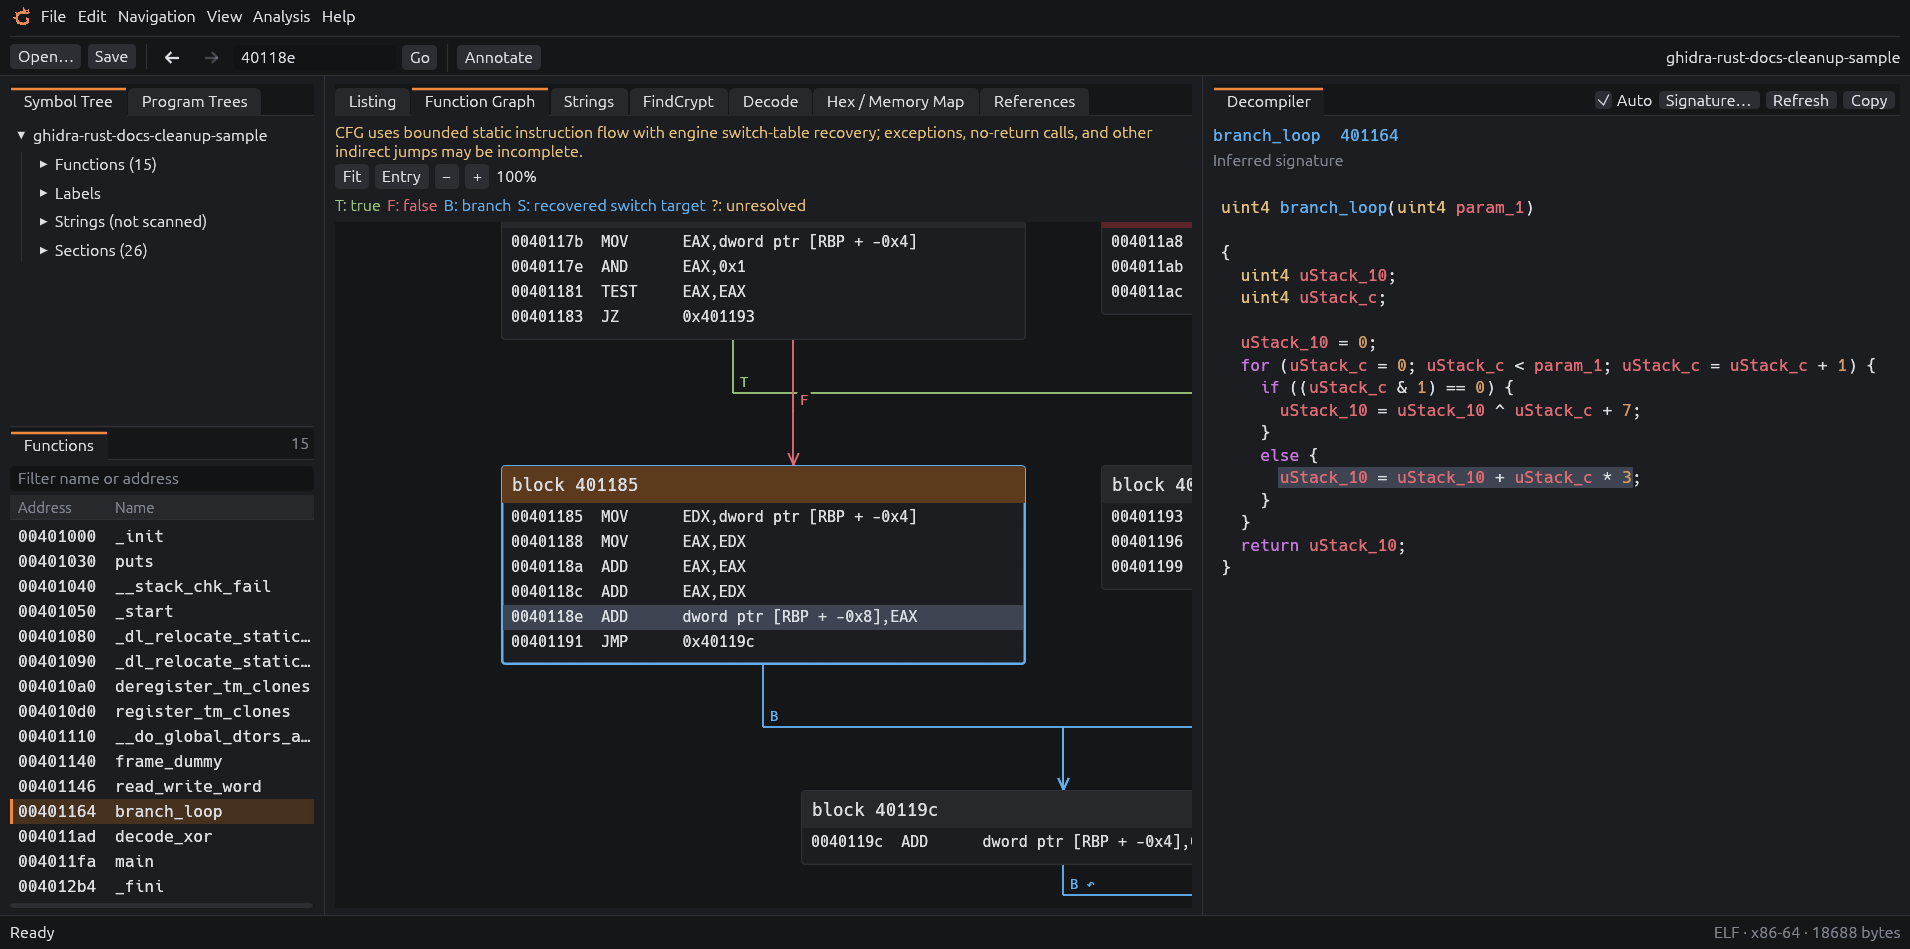
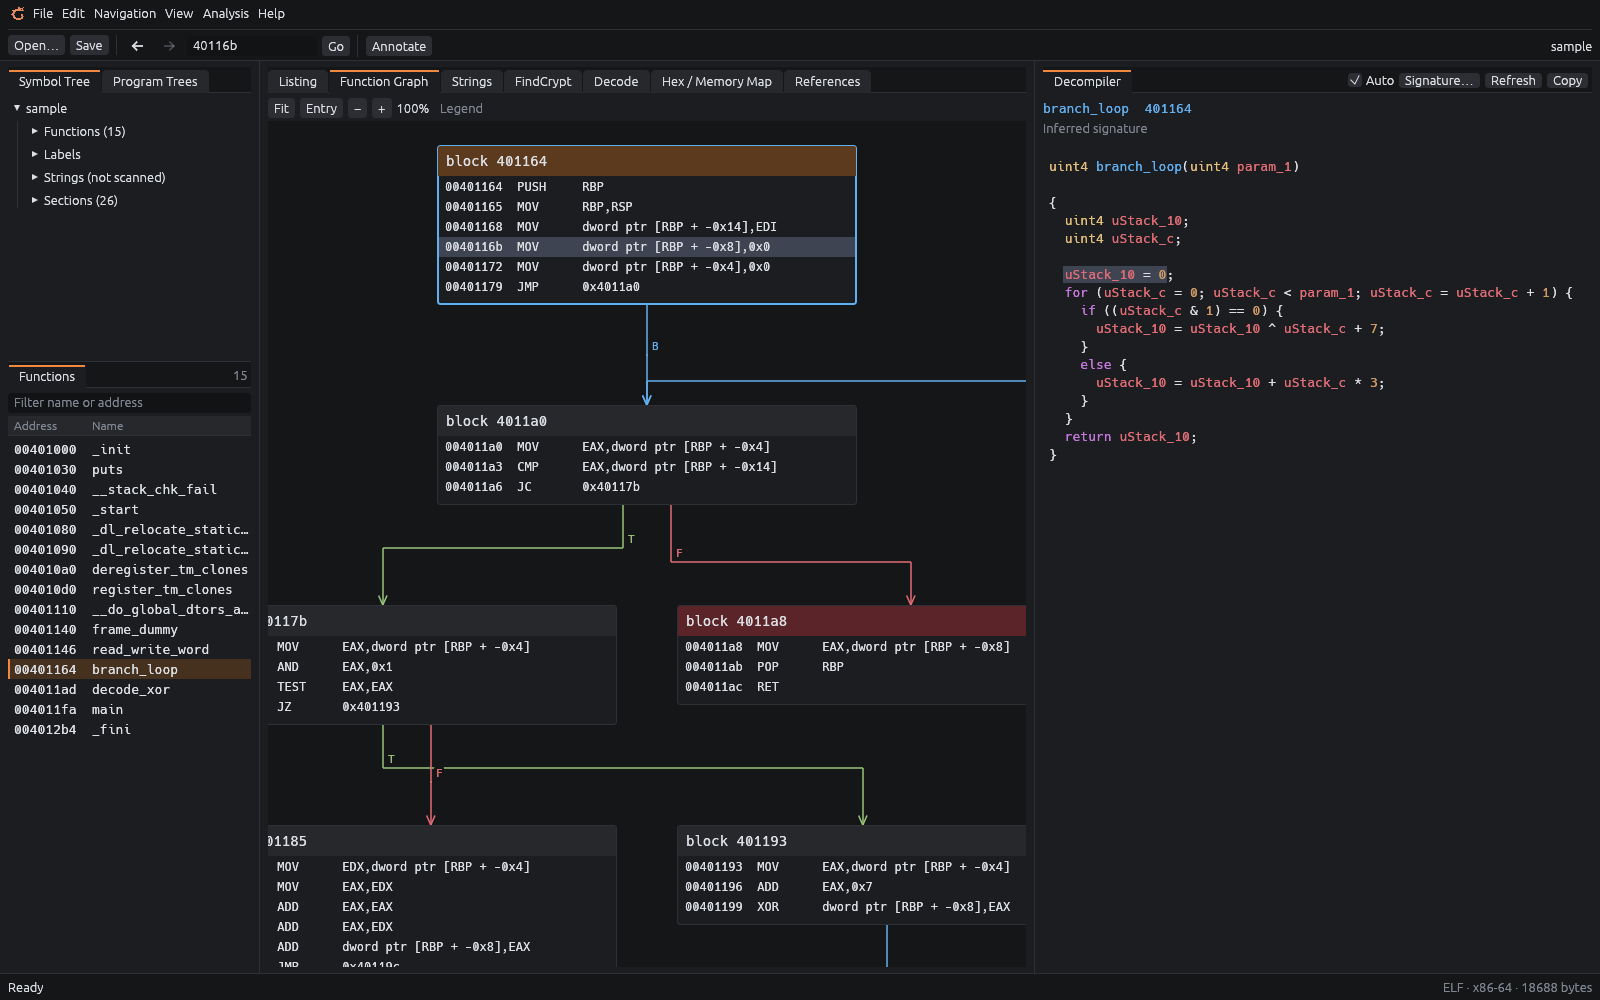
docs: refresh Carbon graph capture and release notes

diff --git a/docs/analysis.md b/docs/analysis.md
@@ -191,8 +191,8 @@ register constants within each basic block, for example `ADRP; ADD; LDR` and
 `MOVZ`/`MOVK` with supported arithmetic, shifts, and extensions. These accesses
 show `Read*` / `Write*` in **Data accesses**; hover the Access cell for
 “* Address from register constants in this block.” Unmarked accesses use
-instruction-local evidence. Block boundaries, calls,
-unsupported/omitted instructions, and overlapping register writes clear knowledge.
+instruction-local evidence. Block boundaries, calls, unsupported/omitted
+instructions, and overlapping register writes clear knowledge.
 Loaded pointers are never chased: `ADRP; LDR` identifies the slot, not its value.
 Address formation alone and call arguments create no references. Cross-branch
 values and switch-recovery table reads are excluded. Internal p-code branches,
@@ -228,9 +228,9 @@ calls reveal work; they are not whole-program completion percentages or ETAs.
 Elapsed time includes setup and waits; step counts identify selected analyses,
 not portions of runtime. Processed counts include failed and limited attempts
 and exclude in-flight work. Other phases show activity. Hover for phase/count
-details. Worker **Seeds**,
-**Calls** (shown as **Analyzing references**), and **Publish** stages report batch
-work; progress never resets CPU or wall-time deadlines.
+details. Worker **Seeds**, **Calls** (shown as **Analyzing references**), and
+**Publish** stages report batch work; progress never resets CPU or wall-time
+deadlines.
 
 Cancel terminates the worker and pauses discovery while retaining committed
 batches and the remaining queue. Discover resumes with a new elapsed clock.

diff --git a/README.md b/README.md
@@ -71,7 +71,8 @@ See [architecture coverage](docs/architectures.md).
 
 Browse or filter Functions, then select a function to inspect its listing,
 graph, and pseudocode. Pan and zoom the graph; **Fit** shows an overview and
-**Entry** returns to readable entry code. **Legend** and graph warnings are in the graph toolbar.
+**Entry** returns to readable entry code.
+**Legend** and graph warnings are in the graph toolbar.
 
 Double-click a resolved call instruction or decompiler call-name token to
 open its target. Back / Forward returns to previous instruction selections.

diff --git a/docs/release-notes/carbon-ui-tidy-up.md b/docs/release-notes/carbon-ui-tidy-up.md
@@ -9,3 +9,5 @@
 - Stabilize Functions and Strings scrolling at fractional Linux display scales:
   use vertical-only lists where appropriate and pixel-snapped widths for tables
   that need horizontal scrolling, ignoring sub-pixel overflow.
+- Refresh the native graph screenshot to show the updated Carbon interface,
+  compact graph toolbar, and genuine linked instruction/pseudocode selection.
